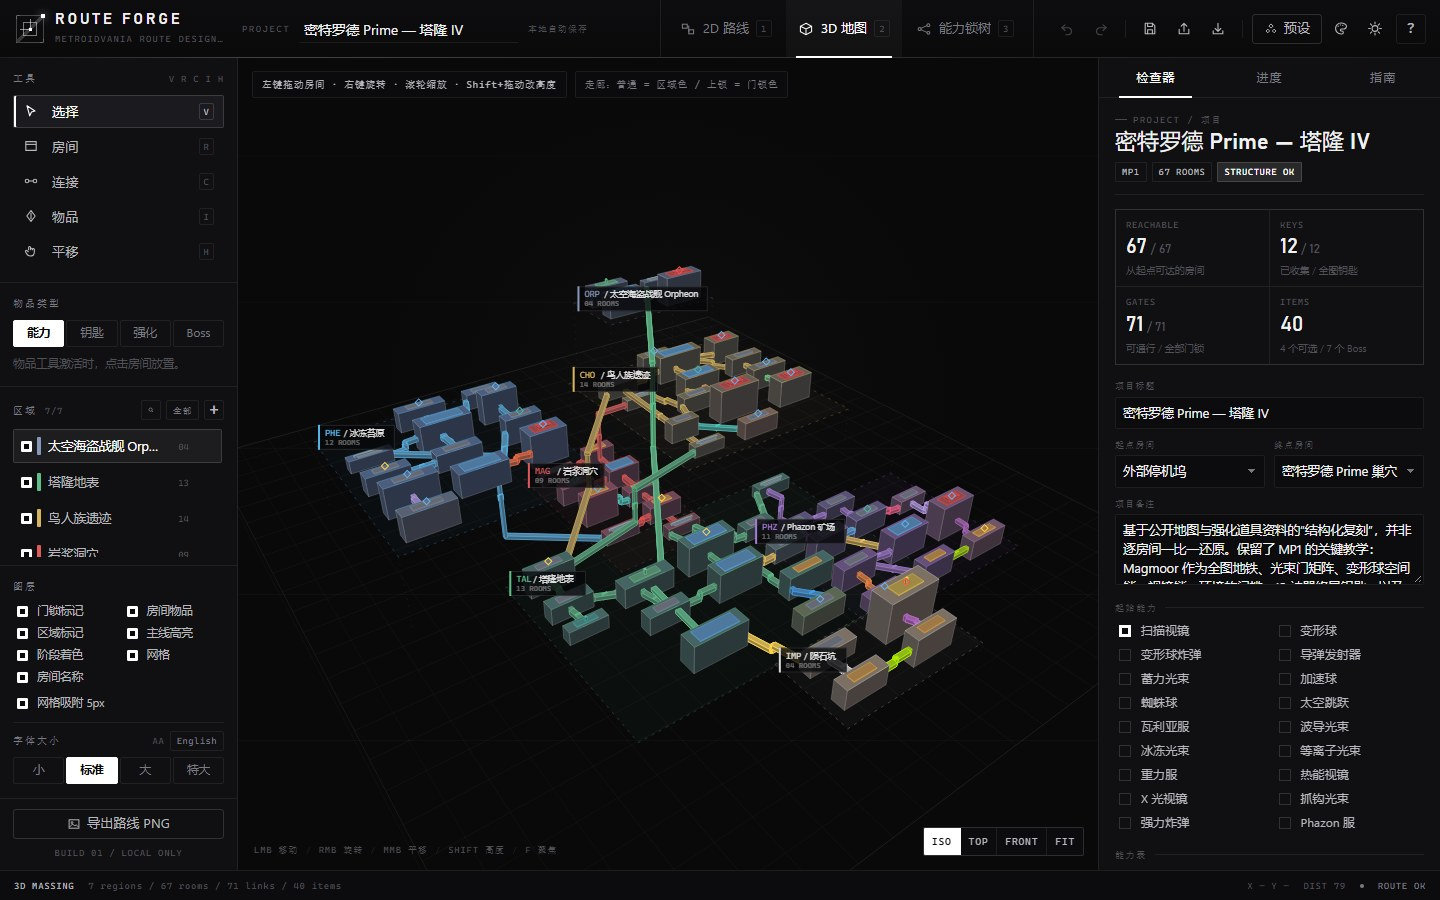
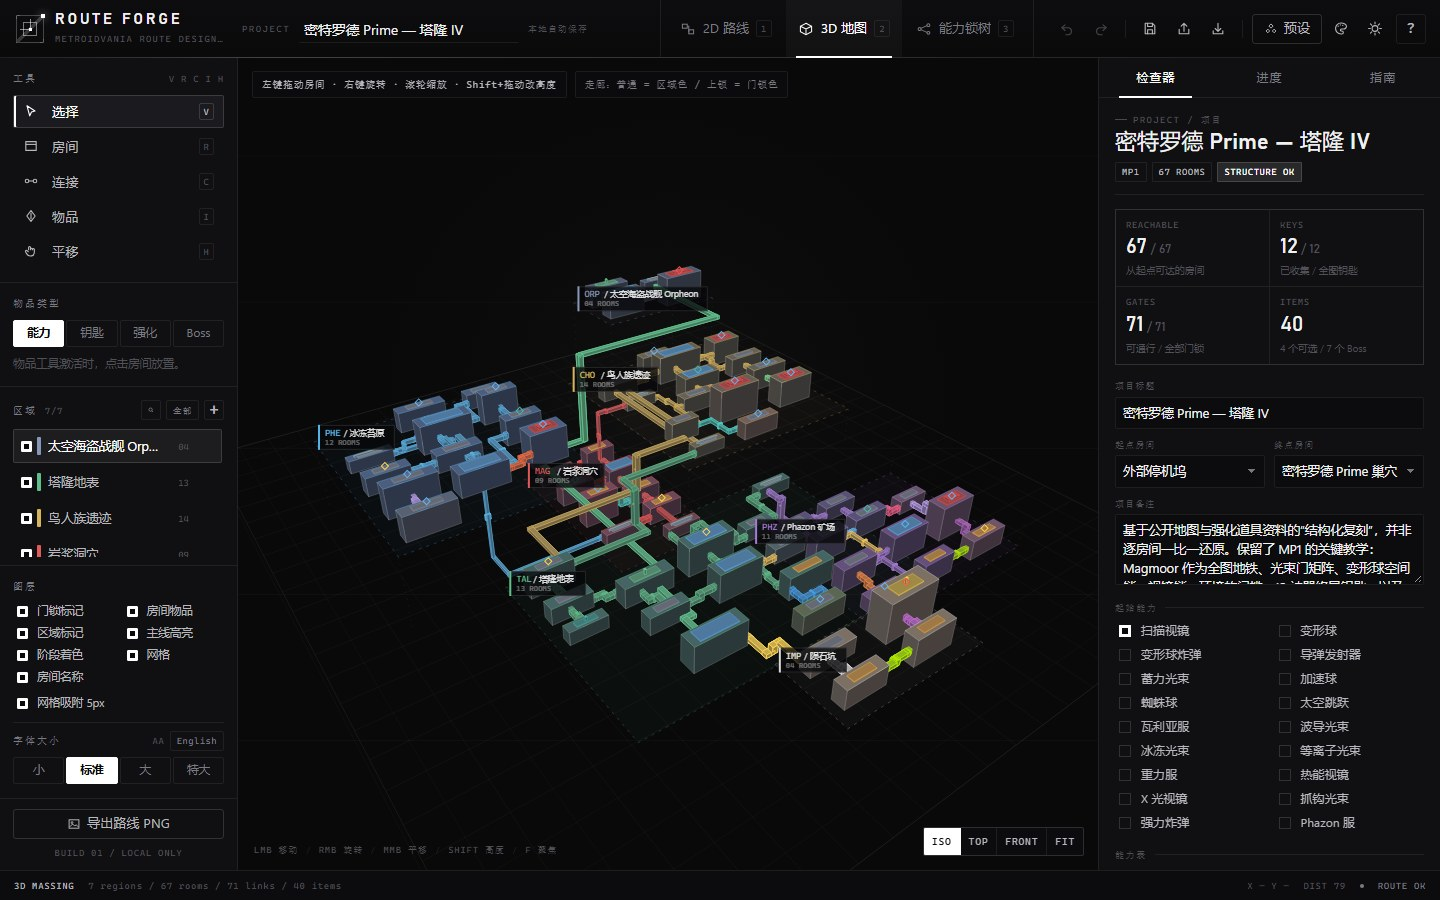
fix: prevent overlapping 3D corridors with staggered ports
Group links by room face, spread same-side exits across distinct wall ports, and route corridors through orthogonal lanes that fan out across the gap. Shrink crowded corridors and thresholds, flip gate blocks across the local corridor direction, and split cross-floor routes at a mid-path shaft.

diff --git a/js/render3d.js b/js/render3d.js
@@ -254,27 +254,170 @@
     });
   }
 
-  function corridorAnchors(a, b) {
-    const dx = b.cx - a.cx;
-    const dz = b.cz - a.cz;
-    let ax, az, bx, bz;
-    if (Math.abs(dx) >= Math.abs(dz)) {
-      const sx = dx === 0 ? 1 : Math.sign(dx);
-      ax = a.cx + sx * (a.width / 2 + 0.04);
-      bx = b.cx - sx * (b.width / 2 + 0.04);
-      az = clamp(b.cz, a.minZ + 0.24, a.maxZ - 0.24);
-      bz = clamp(a.cz, b.minZ + 0.24, b.maxZ - 0.24);
+  const FACE_NORMALS = {
+    E: { x: 1, z: 0 },
+    W: { x: -1, z: 0 },
+    N: { x: 0, z: -1 },
+    S: { x: 0, z: 1 }
+  };
+
+  function corridorSide(from, to) {
+    const dx = to.cx - from.cx;
+    const dz = to.cz - from.cz;
+    if (Math.abs(dx) >= Math.abs(dz)) return dx >= 0 ? 'E' : 'W';
+    return dz >= 0 ? 'S' : 'N';
+  }
+
+  /* Assign a distinct port on each room face for every link. Links leaving the
+     same face are spread along that face and get progressively thinner, so they
+     no longer collapse into one shared opening. */
+  function buildCorridorRoutes(project, boxes) {
+    const groups = new Map();
+    function addExit(linkId, end, room, other) {
+      const side = corridorSide(room, other);
+      const horizontal = side === 'E' || side === 'W';
+      const key = room.id + '|' + side;
+      if (!groups.has(key)) groups.set(key, { room, side, exits: [] });
+      groups.get(key).exits.push({
+        linkId, end,
+        target: horizontal ? other.cz : other.cx
+      });
+    }
+    (project.links || []).forEach(link => {
+      const a = boxes[link.a];
+      const b = boxes[link.b];
+      if (!a || !b) return;
+      addExit(link.id, 'a', a, b);
+      addExit(link.id, 'b', b, a);
+    });
+
+    const ports = {};
+    groups.forEach(group => {
+      const room = group.room;
+      const side = group.side;
+      const horizontal = side === 'E' || side === 'W';
+      const exits = group.exits.sort((p, q) => p.target - q.target || p.linkId.localeCompare(q.linkId));
+      const min = horizontal ? room.minZ : room.minX;
+      const max = horizontal ? room.maxZ : room.maxX;
+      const face = Math.max(0.08, max - min);
+      const margin = Math.min(0.2, face * 0.09);
+      const innerMin = min + margin;
+      const innerMax = max - margin;
+      const count = exits.length;
+      const spacing = count > 1 ? (innerMax - innerMin) / (count + 1) : 0.6;
+      const width = clamp(spacing * 0.82, 0.17, 0.46);
+      exits.forEach((exit, index) => {
+        const coord = count === 1
+          ? clamp(exit.target, innerMin, innerMax)
+          : innerMin + (innerMax - innerMin) * ((index + 1) / (count + 1));
+        const gap = 0.035;
+        let x;
+        let z;
+        if (side === 'E') { x = room.maxX + gap; z = coord; }
+        else if (side === 'W') { x = room.minX - gap; z = coord; }
+        else if (side === 'S') { z = room.maxZ + gap; x = coord; }
+        else { z = room.minZ - gap; x = coord; }
+        if (!ports[exit.linkId]) ports[exit.linkId] = {};
+        ports[exit.linkId][exit.end] = {
+          x, z,
+          y: room.base + room.height * 0.42,
+          side,
+          width,
+          index,
+          count
+        };
+      });
+    });
+
+    const routes = {};
+    (project.links || []).forEach(link => {
+      const port = ports[link.id];
+      if (!port || !port.a || !port.b) return;
+      routes[link.id] = buildRoute(port.a, port.b);
+    });
+    return routes;
+  }
+
+  function buildRoute(portA, portB) {
+    const normalA = FACE_NORMALS[portA.side];
+    const normalB = FACE_NORMALS[portB.side];
+    const lead = 0.32;
+    const start = { x: portA.x, z: portA.z };
+    const stubA = { x: portA.x + normalA.x * lead, z: portA.z + normalA.z * lead };
+    const stubB = { x: portB.x + normalB.x * lead, z: portB.z + normalB.z * lead };
+    const horizontal = portA.side === 'E' || portA.side === 'W';
+    const laneGroup = portA.count >= portB.count ? portA : portB;
+    const laneT = laneGroup.count > 1
+      ? (laneGroup.index + 1) / (laneGroup.count + 1)
+      : 0.5;
+    let elbow1;
+    let elbow2;
+    if (horizontal) {
+      const laneX = stubA.x + (stubB.x - stubA.x) * laneT;
+      elbow1 = { x: laneX, z: stubA.z };
+      elbow2 = { x: laneX, z: stubB.z };
     } else {
-      const sz = dz === 0 ? 1 : Math.sign(dz);
-      az = a.cz + sz * (a.depth / 2 + 0.04);
-      bz = b.cz - sz * (b.depth / 2 + 0.04);
-      ax = clamp(b.cx, a.minX + 0.24, a.maxX - 0.24);
-      bx = clamp(a.cx, b.minX + 0.24, b.maxX - 0.24);
+      const laneZ = stubA.z + (stubB.z - stubA.z) * laneT;
+      elbow1 = { x: stubA.x, z: laneZ };
+      elbow2 = { x: stubB.x, z: laneZ };
+    }
+    const points = [start, stubA, elbow1, elbow2, stubB, { x: portB.x, z: portB.z }];
+    const cleaned = [];
+    points.forEach(point => {
+      const last = cleaned[cleaned.length - 1];
+      if (!last || Math.hypot(point.x - last.x, point.z - last.z) > 0.01) cleaned.push(point);
+    });
+    let gateDirX;
+    let gateDirZ;
+    if (Math.hypot(elbow2.x - elbow1.x, elbow2.z - elbow1.z) > 0.02) {
+      gateDirX = elbow2.x - elbow1.x;
+      gateDirZ = elbow2.z - elbow1.z;
+    } else if (horizontal) {
+      gateDirX = 1;
+      gateDirZ = 0;
+    } else {
+      gateDirX = 0;
+      gateDirZ = 1;
     }
     return {
-      a: { x: ax, z: az, y: a.base + a.height * 0.42 },
-      b: { x: bx, z: bz, y: b.base + b.height * 0.42 }
+      points: cleaned,
+      gate: {
+        x: (elbow1.x + elbow2.x) / 2,
+        z: (elbow1.z + elbow2.z) / 2,
+        /* The gate is a crossbar: long axis x when the local corridor runs z. */
+        alongX: Math.abs(gateDirZ) > Math.abs(gateDirX)
+      },
+      width: Math.min(portA.width, portB.width),
+      yA: portA.y,
+      yB: portB.y
     };
+  }
+
+  function splitPathAtHalf(points) {
+    if (!points || points.length < 2) return null;
+    let total = 0;
+    for (let i = 1; i < points.length; i++) {
+      total += Math.hypot(points[i].x - points[i - 1].x, points[i].z - points[i - 1].z);
+    }
+    let remaining = total / 2;
+    for (let i = 1; i < points.length; i++) {
+      const p0 = points[i - 1];
+      const p1 = points[i];
+      const length = Math.hypot(p1.x - p0.x, p1.z - p0.z);
+      if (remaining <= length || i === points.length - 1) {
+        const t = length > 0.001 ? remaining / length : 0;
+        const shaft = { x: p0.x + (p1.x - p0.x) * t, z: p0.z + (p1.z - p0.z) * t };
+        return {
+          before: points.slice(0, i).concat([shaft]),
+          after: [shaft].concat(points.slice(i)),
+          shaft,
+          dx: p1.x - p0.x,
+          dz: p1.z - p0.z
+        };
+      }
+      remaining -= length;
+    }
+    return null;
   }
 
   function buildCorridors(project, view, sc) {
@@ -285,11 +428,14 @@
     sc.boxes.forEach(box => { boxes[box.id] = box; });
     const pathSet = new Set((view.analysis && view.analysis.pathLinks) || []);
     const selectedRoom = view.selection && view.selection.type === 'room' ? view.selection.id : null;
+    const routes = buildCorridorRoutes(project, boxes);
 
     (project.links || []).forEach(link => {
       const a = boxes[link.a];
       const b = boxes[link.b];
       if (!a || !b) return;
+      const route = routes[link.id];
+      if (!route || route.points.length < 2) return;
       const gate = MV.gateById(link.gate);
       const gateAccent = MV.gateColor(gate, view.colorMode);
       const targetRegion = project.regions.find(r => r.id === b.room.region);
@@ -304,7 +450,6 @@
       const open = view.analysis && view.analysis.openLinks
         ? view.analysis.openLinks[link.id] !== undefined
         : true;
-      const anchors = corridorAnchors(a, b);
       let topFill;
       let sideFill;
       let stroke;
@@ -329,7 +474,7 @@
       const doorStyle = { fill: sideFill, topFill, stroke, width: selected ? 1 : 0.6, selected, corridor: true };
 
       const threshold = (point) => {
-        const size = 0.16;
+        const size = clamp(route.width * 0.55, 0.08, 0.16);
         addGenericBox(faces, sc, {
           minX: point.x - size, maxX: point.x + size,
           minZ: point.z - size, maxZ: point.z + size,
@@ -342,35 +487,75 @@
         oneWay: link.dir !== 'both', direction: link.dir
       });
 
-      const dy = Math.abs(anchors.a.y - anchors.b.y);
-      if (dy < 0.24) {
-        addOrientedPrism(faces, sc, anchors.a.x, anchors.a.z, anchors.b.x, anchors.b.z,
-          (anchors.a.y + anchors.b.y) / 2, 0.46, 0.36, prismStyle);
-      } else {
-        const mx = (anchors.a.x + anchors.b.x) / 2;
-        const mz = (anchors.a.z + anchors.b.z) / 2;
-        addOrientedPrism(faces, sc, anchors.a.x, anchors.a.z, mx, mz, anchors.a.y, 0.46, 0.34, prismStyle);
-        addOrientedPrism(faces, sc, mx, mz, anchors.b.x, anchors.b.z, anchors.b.y, 0.46, 0.34, prismStyle);
+      const corridorWidth = route.width;
+      const first = route.points[0];
+      const last = route.points[route.points.length - 1];
+
+      const addSegment = (p0, p1, y, height) => {
+        if (Math.hypot(p1.x - p0.x, p1.z - p0.z) < 0.012) return;
+        addOrientedPrism(faces, sc, p0.x, p0.z, p1.x, p1.z, y, corridorWidth, height || 0.36, prismStyle);
+      };
+      const addJoint = (point, y) => {
+        const half = Math.max(0.09, corridorWidth * 0.52);
         addGenericBox(faces, sc, {
-          minX: mx - 0.14, maxX: mx + 0.14,
-          minZ: mz - 0.14, maxZ: mz + 0.14,
-          base: Math.min(anchors.a.y, anchors.b.y) - 0.12,
-          top: Math.max(anchors.a.y, anchors.b.y) + 0.12
+          minX: point.x - half, maxX: point.x + half,
+          minZ: point.z - half, maxZ: point.z + half,
+          base: y - 0.18, top: y + 0.18
+        }, { fill: sideFill, topFill, stroke, width: selected || isPath ? 0.9 : 0.6, selected, corridor: true });
+      };
+      const addGate = (point, alongX, y) => {
+        const halfAlong = 0.24;
+        const halfAcross = 0.08;
+        addGenericBox(faces, sc, {
+          minX: point.x - (alongX ? halfAlong : halfAcross),
+          maxX: point.x + (alongX ? halfAlong : halfAcross),
+          minZ: point.z - (alongX ? halfAcross : halfAlong),
+          maxZ: point.z + (alongX ? halfAcross : halfAlong),
+          base: y - 0.26, top: y + 0.28
+        }, { fill: topFill, topFill: stroke, stroke, width: selected || isPath ? 1.2 : 0.8, selected, corridor: true });
+      };
+
+      const dy = Math.abs(route.yA - route.yB);
+      if (dy < 0.24) {
+        const y = (route.yA + route.yB) / 2;
+        for (let i = 1; i < route.points.length; i++) {
+          addSegment(route.points[i - 1], route.points[i], y);
+        }
+        for (let i = 1; i < route.points.length - 1; i++) {
+          addJoint(route.points[i], y);
+        }
+        addGate(route.gate, route.gate.alongX, y);
+        labelPoint(route.gate.x, y + 0.46, route.gate.z);
+      } else {
+        const split = splitPathAtHalf(route.points);
+        if (!split) return;
+        for (let i = 1; i < split.before.length; i++) {
+          addSegment(split.before[i - 1], split.before[i], route.yA, 0.34);
+        }
+        for (let i = 1; i < split.before.length - 1; i++) {
+          addJoint(split.before[i], route.yA);
+        }
+        for (let i = 1; i < split.after.length; i++) {
+          addSegment(split.after[i - 1], split.after[i], route.yB, 0.34);
+        }
+        for (let i = 1; i < split.after.length - 1; i++) {
+          addJoint(split.after[i], route.yB);
+        }
+        const half = Math.max(0.11, corridorWidth * 0.55);
+        addGenericBox(faces, sc, {
+          minX: split.shaft.x - half, maxX: split.shaft.x + half,
+          minZ: split.shaft.z - half, maxZ: split.shaft.z + half,
+          base: Math.min(route.yA, route.yB) - 0.12,
+          top: Math.max(route.yA, route.yB) + 0.12
         }, { fill: sideFill, topFill, stroke, width: selected || isPath ? 1 : 0.6, selected, corridor: true });
+        const gateY = (route.yA + route.yB) / 2;
+        const alongX = Math.abs(split.dz) > Math.abs(split.dx);
+        addGate(split.shaft, alongX, gateY);
+        labelPoint(split.shaft.x, gateY + 0.46, split.shaft.z);
       }
 
-      threshold(anchors.a);
-      threshold(anchors.b);
-      const gateY = (anchors.a.y + anchors.b.y) / 2;
-      const gateX = (anchors.a.x + anchors.b.x) / 2;
-      const gateZ = (anchors.a.z + anchors.b.z) / 2;
-      addGenericBox(faces, sc, {
-        minX: gateX - 0.22, maxX: gateX + 0.22,
-        minZ: gateZ - 0.07, maxZ: gateZ + 0.07,
-        base: gateY - 0.26, top: gateY + 0.28
-      }, { fill: topFill, topFill: stroke, stroke, width: selected || isPath ? 1.2 : 0.8, selected, corridor: true });
-
-      labelPoint(gateX, gateY + 0.46, gateZ);
+      threshold({ x: first.x, z: first.z, y: route.yA });
+      threshold({ x: last.x, z: last.z, y: route.yB });
     });
 
     return { faces, labels };

diff --git a/README.en.md b/README.en.md
@@ -48,6 +48,8 @@ Internal codename: **ROUTE FORGE**. Pure frontend, zero dependencies: open `inde
   - Same-floor links generate solid corridor prisms
   - Cross-floor links generate a horizontal run plus a vertical shaft (elevator)
   - Both ends get door frames / threshold blocks; the middle gets a gate barrier
+- Multiple corridors leaving the same room face get distinct wall ports and staggered orthogonal bends instead of collapsing into one shared opening
+- Gate blocks cross the local corridor direction; corridors and thresholds get thinner when a face is crowded
 - Type-specific room details: roof panels, boss pedestal, save / start / goal beacons
 - Normal corridors use the target region color; locked corridors use the gate color; selecting a room highlights all its corridors
 - Camera: left-drag rooms, right-drag orbit, middle-drag pan, wheel dolly, ISO / TOP / FRONT presets

diff --git a/CHANGELOG.md b/CHANGELOG.md
@@ -1,5 +1,25 @@
 # Changelog
 
+## 2026-11-24 — 3D 走廊分叉路由
+
+### Changed
+
+- 同侧多个通道按目标位置排序后分配不同墙面端口，不再共用一个出口
+- 走廊改为正交折线：离开墙面后在错开的车道拐弯，再进入目标端口
+- 同侧通道越多，走廊与门槛自动收窄，避免端口互相覆盖
+- 跨层走廊在折线路径的竖向井处换层，门锁块横跨当前走廊方向
+
+### Fixed
+
+- 修复一个房间有多条同向通道时在 3D 中重叠的问题
+- 修复门锁块方向可能顺着走廊而不是横跨走廊的问题
+
+### Validation
+
+- 构造 5 条东向 + 2 条北向通道的压力场景，俯视/等轴均分叉清晰
+- 同层与跨层走廊、门框、门锁位置正常
+- MP1 3D ISO / TOP / FIT 回归，控制台无错误
+
 ## 2026-11-24 — 语言按钮位置调整
 
 ### Changed

diff --git a/README.md b/README.md
@@ -48,6 +48,8 @@
   - 同层连接生成实体走廊棱柱
   - 跨层连接生成水平段 + 竖向井（升降机）
   - 两端有门框 / 门槛块，中段有门锁闸门
+- 同一房间同侧有多条通道时，会自动分配到不同墙面端口，并以错开的折线路径拐弯连接，避免叠在同一个出口
+- 门锁块横跨当前走廊方向；通道密集时会自动收窄走廊与门槛
 - 房间类型化细节：屋顶面板、Boss 台座、存档 / 起点 / 终点信标
 - 普通通道使用目标区域色；上锁通道使用门锁色；选中房间时其全部走廊高亮
 - 相机：左键操作房间、右键旋转、中键平移、滚轮缩放、ISO / TOP / FRONT 预设
